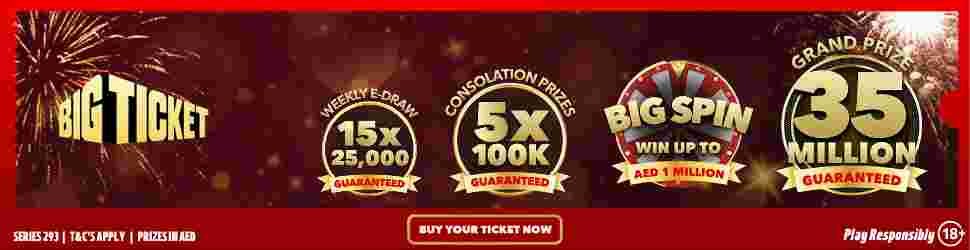
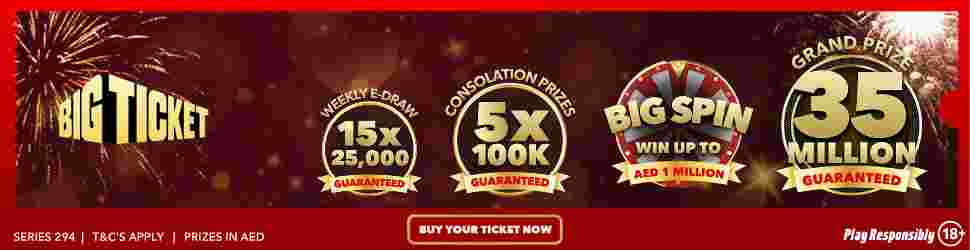
Add files via upload

Changed region(s): [[0.0, 0.896, 0.2784, 1.0]]

diff --git a/2026/12-december/awareness/orig/970x250/big_ticket_awareness_html5_970x250.js b/2026/12-december/awareness/orig/970x250/big_ticket_awareness_html5_970x250.js
@@ -873,132 +873,132 @@ if (reversed == null) { reversed = false; }
 	this.shape_14.setTransform(847.2571,234.275);
 
 	this.shape_15 = new cjs.Shape();
-	this.shape_15.graphics.f("#FFFFFF").s().p("AgYAvIAAhdIAXAAQAHAAAGAEQAGADADAGQAEAGAAAIIAAAmQAAAIgEAHQgDAGgGADQgGAEgHAAgAgCAbIABAAQAAAAABgBQAAAAAAAAQABAAAAAAQABgBAAAAIABgFIAAgoQAAgBAAgBQAAAAgBgBQAAAAAAgBQAAAAgBAAIgCgBIgBAAg");
-	this.shape_15.setTransform(192.925,236.35);
+	this.shape_15.graphics.f("#FFFFFF").s().p("AgkApIAAhRIAdAAQAHAAAIACQAIACAHAFQAGAFAEAHQAEAIAAALQAAAKgEAJQgEAHgGAFQgHAFgIADQgIACgHAAgAgWAdIANAAIAKgCQAGgCAEgDQAFgDADgFQADgGAAgIQAAgIgDgGQgDgFgFgDQgEgDgGgBIgKgCIgNAAg");
+	this.shape_15.setTransform(260.575,236.8);
 
 	this.shape_16 = new cjs.Shape();
-	this.shape_16.graphics.f("#FFFFFF").s().p("AgUAvIAAhdIApAAIAAAUIgUAAIAAAQIAQAAIAAATIgQAAIAAASIAUAAIAAAUg");
-	this.shape_16.setTransform(187.875,236.35);
+	this.shape_16.graphics.f("#FFFFFF").s().p("AgbApIAAhRIA1AAIAAAMIgnAAIAAAWIAlAAIAAALIglAAIAAAXIApAAIAAANg");
+	this.shape_16.setTransform(252.625,236.8);
 
 	this.shape_17 = new cjs.Shape();
-	this.shape_17.graphics.f("#FFFFFF").s().p("AAHAvIgCgSIgKAAIgBASIgVAAIAMhdIAeAAIANBdgAADAJIgCgYIgBgIIAAAIIgDAYIAGAAg");
-	this.shape_17.setTransform(182.45,236.35);
+	this.shape_17.graphics.f("#FFFFFF").s().p("AAZApIgHgTIgjAAIgHATIgRAAIAkhRIAMAAIAjBRgAgMAKIAZAAIgNghg");
+	this.shape_17.setTransform(244.775,236.8);
 
 	this.shape_18 = new cjs.Shape();
-	this.shape_18.graphics.f("#FFFFFF").s().p("AAAAvIgFg7IAAA7IgWAAIAAhdIAcAAIAFA5IAAg5IAWAAIAABdg");
-	this.shape_18.setTransform(174.775,236.35);
+	this.shape_18.graphics.f("#FFFFFF").s().p("AASApIgmg/IgBAAIAAA/IgOAAIAAhRIATAAIAlA9IAAg9IAPAAIAABRg");
+	this.shape_18.setTransform(233.275,236.8);
 
 	this.shape_19 = new cjs.Shape();
-	this.shape_19.graphics.f("#FFFFFF").s().p("AgKAvIAAhdIAVAAIAABdg");
-	this.shape_19.setTransform(170.225,236.35);
+	this.shape_19.graphics.f("#FFFFFF").s().p("AgGApIAAhRIANAAIAABRg");
+	this.shape_19.setTransform(227.125,236.8);
 
 	this.shape_20 = new cjs.Shape();
-	this.shape_20.graphics.f("#FFFFFF").s().p("AgLAvIgLgDIAFgTIAIACIAGABQADAAABgBQABgBAAAAQAAgBABAAQAAgBAAAAQAAgBAAgBIAAAAQAAgDgCgDIgFgHIgFgEIgGgHQgDgEgBgEQgCgFAAgGQAAgNAGgGQAHgHAJAAIAKABQAFABAGACIgGASIgGgBIgEgBQgEAAgCACQAAAAAAABQAAAAAAABQAAAAAAABQgBAAAAABIAAAAQABADAAACIAGAGIACACIACADIAHAGIAFAJQABAEABAHQAAAJgEAGQgDAGgFADQgFADgHAAIgLgBg");
-	this.shape_20.setTransform(164.85,236.325);
+	this.shape_20.graphics.f("#FFFFFF").s().p("AgPAoQgJgDgEgGIAKgKQAEAFAEADQAGABAEAAIAEAAIAGgCIADgEQABgCAAgDQAAgEgBgCIgFgDIgFgEIgHgCIgHgCQgEgCgDgCQgDgCgBgEQgCgEAAgGQAAgGACgFQADgFAEgDQAEgCAGgCIAJgBQAHAAAGACQAGACAGAFIgKAKQgDgDgDgCQgFgCgEAAIgFAAIgEACIgEAEIgBAFIABAFIAEADIAEADIAGACIAIADIAIADQAEADABAEQADAEAAAGQAAAGgDAGQgCAEgEAEQgEADgFABQgGACgFAAQgIAAgHgDg");
+	this.shape_20.setTransform(219.15,236.8);
 
 	this.shape_21 = new cjs.Shape();
-	this.shape_21.graphics.f("#FFFFFF").s().p("AgUAvIAAhdIApAAIAAAUIgUAAIAAAQIAQAAIAAATIgQAAIAAASIAUAAIAAAUg");
-	this.shape_21.setTransform(160.175,236.35);
+	this.shape_21.graphics.f("#FFFFFF").s().p("AgbApIAAhRIA1AAIAAAMIgnAAIAAAWIAlAAIAAALIglAAIAAAXIApAAIAAANg");
+	this.shape_21.setTransform(212.625,236.8);
 
 	this.shape_22 = new cjs.Shape();
-	this.shape_22.graphics.f("#FFFFFF").s().p("AgXAvIAAgTIAZg1IgWAAIAAgVIAsAAIAAATIgZA2IAZAAIAAAUg");
-	this.shape_22.setTransform(155.075,236.35);
+	this.shape_22.graphics.f("#FFFFFF").s().p("AgeApIAAgNIArg4IgqAAIAAgMIA8AAIAAANIgsA3IAsAAIAAANg");
+	this.shape_22.setTransform(205.375,236.8);
 
 	this.shape_23 = new cjs.Shape();
-	this.shape_23.graphics.f("#FFFFFF").s().p("AgKAvIAAhdIAVAAIAABdg");
-	this.shape_23.setTransform(150.975,236.35);
+	this.shape_23.graphics.f("#FFFFFF").s().p("AgGApIAAhRIANAAIAABRg");
+	this.shape_23.setTransform(200.175,236.8);
 
 	this.shape_24 = new cjs.Shape();
-	this.shape_24.graphics.f("#FFFFFF").s().p("AAEAvIgHgkIgBAAIAAAkIgWAAIAAhdIAXAAQAKAAAGAEQAFACADAHQACAFAAAIIAAAHQAAAHgCAFQgCAEgDACIALAqgAgEgFIABAAQAAAAABAAQABAAAAAAQABgBAAAAQAAAAAAAAQAAgBAAAAQAAgBABAAQAAgBAAAAQAAgBAAgBIAAgJIgBgEIgDgBIgBAAg");
-	this.shape_24.setTransform(146.525,236.35);
+	this.shape_24.graphics.f("#FFFFFF").s().p("AANApIgSgjIgLAAIAAAjIgOAAIAAhRIAdAAIAKABIAJAEQAEADADAEQADAFAAAHQAAAIgGAGQgEAEgJACIAWAlgAgQgFIAMAAIAGAAIAGgCQACgBABgDQACgCAAgDQAAgEgCgCIgDgDIgGgDIgEAAIgOAAg");
+	this.shape_24.setTransform(195.25,236.8);
 
 	this.shape_25 = new cjs.Shape();
-	this.shape_25.graphics.f("#FFFFFF").s().p("AgYAvIAAhdIAXAAQAKAAAFAEQAGACACAHQADAFAAAIIAAAIQAAAKgEAFQgDAFgGADQgGABgHAAIgBAAIAAAjgAgCgEIABAAIACgBQABAAAAgBQAAAAAAgBQABAAAAgBQAAgBAAgBIAAgKIgBgEIgDgBIgBAAg");
-	this.shape_25.setTransform(140.725,236.35);
+	this.shape_25.graphics.f("#FFFFFF").s().p("AgcApIAAhRIAbAAQAGAAAGABQAFABAFAEQAEADACAEQACAEAAAHQAAAGgDAFQgCAFgEACQgFADgGABIgLABIgLAAIAAAigAgNgEIAKAAIAGgBIAGgBIAEgFQABgCAAgDQAAgEgBgCQgCgDgCAAIgGgDIgFAAIgLAAg");
+	this.shape_25.setTransform(187.975,236.8);
 
 	this.shape_26 = new cjs.Shape();
-	this.shape_26.graphics.f("#FFFFFF").s().p("AgIA8IAAh3IASAAIAAB3g");
-	this.shape_26.setTransform(131.6,237.625);
+	this.shape_26.graphics.f("#FFFFFF").s().p("AgFA6IAAhzIALAAIAABzg");
+	this.shape_26.setTransform(174.25,238);
 
 	this.shape_27 = new cjs.Shape();
-	this.shape_27.graphics.f("#FFFFFF").s().p("AgKAvIAAgaIgShDIAXAAIAFAgIAHggIAWAAIgSBDIAAAag");
-	this.shape_27.setTransform(122.325,236.35);
+	this.shape_27.graphics.f("#FFFFFF").s().p("AgGApIAAgkIgfgtIASAAIATAjIAVgjIARAAIgfAtIAAAkg");
+	this.shape_27.setTransform(160.675,236.8);
 
 	this.shape_28 = new cjs.Shape();
-	this.shape_28.graphics.f("#FFFFFF").s().p("AgVAvIAAhdIAVAAIAABIIAWAAIAAAVg");
-	this.shape_28.setTransform(116.7,236.35);
+	this.shape_28.graphics.f("#FFFFFF").s().p("AgYApIAAhRIAPAAIAABEIAiAAIAAANg");
+	this.shape_28.setTransform(154.525,236.8);
 
 	this.shape_29 = new cjs.Shape();
-	this.shape_29.graphics.f("#FFFFFF").s().p("AgYAvIAAhdIAXAAQAKAAAFAEQAGACACAHQADAFAAAIIAAAIQAAAKgEAFQgDAFgGADQgGABgHAAIgBAAIAAAjgAgCgEIABAAIACgBQABAAAAgBQAAAAAAgBQABAAAAgBQAAgBAAgBIAAgKIgBgEIgDgBIgBAAg");
-	this.shape_29.setTransform(111.325,236.35);
+	this.shape_29.graphics.f("#FFFFFF").s().p("AgcApIAAhRIAbAAQAGAAAGABQAFABAFAEQAEADACAEQACAEAAAHQAAAGgDAFQgCAFgEACQgFADgGABIgLABIgLAAIAAAigAgNgEIAKAAIAGgBIAGgBIAEgFQABgCAAgDQAAgEgBgCQgCgDgCAAIgGgDIgFAAIgLAAg");
+	this.shape_29.setTransform(147.825,236.8);
 
 	this.shape_30 = new cjs.Shape();
-	this.shape_30.graphics.f("#FFFFFF").s().p("AgYAvIAAhdIAXAAQAKAAAFAEQAGACACAHQADAFAAAIIAAAIQAAAKgEAFQgDAFgGADQgGABgHAAIgBAAIAAAjgAgCgEIABAAIACgBQABAAAAgBQAAAAAAgBQABAAAAgBQAAgBAAgBIAAgKIgBgEIgDgBIgBAAg");
-	this.shape_30.setTransform(105.725,236.35);
+	this.shape_30.graphics.f("#FFFFFF").s().p("AgcApIAAhRIAbAAQAGAAAGABQAFABAFAEQAEADACAEQACAEAAAHQAAAGgDAFQgCAFgEACQgFADgGABIgLABIgLAAIAAAigAgNgEIAKAAIAGgBIAGgBIAEgFQABgCAAgDQAAgEgBgCQgCgDgCAAIgGgDIgFAAIgLAAg");
+	this.shape_30.setTransform(140.775,236.8);
 
 	this.shape_31 = new cjs.Shape();
-	this.shape_31.graphics.f("#FFFFFF").s().p("AAHAvIgCgSIgKAAIgBASIgVAAIAMhdIAfAAIAMBdgAADAJIgCgYIgBgIIAAAIIgCAYIAFAAg");
-	this.shape_31.setTransform(99.85,236.35);
+	this.shape_31.graphics.f("#FFFFFF").s().p("AAZApIgHgTIgjAAIgHATIgRAAIAkhRIAMAAIAjBRgAgMAKIAZAAIgNghg");
+	this.shape_31.setTransform(132.875,236.8);
 
 	this.shape_32 = new cjs.Shape();
-	this.shape_32.graphics.f("#FFFFFF").s().p("AgLAvIgLgDIAFgTIAHACIAHABQADAAABgBQABgBAAAAQAAgBABAAQAAgBAAAAQAAgBAAgBIAAAAQAAgDgCgDIgFgHIgFgEIgGgHQgDgEgBgEQgCgFAAgGQAAgNAGgGQAHgHAJAAIAKABQAFABAGACIgGASIgGgBIgEgBQgEAAgCACQAAAAAAABQAAAAAAABQAAAAAAABQgBAAAAABIAAAAQABADAAACIAGAGIACACIACADIAHAGIAFAJQABAEABAHQAAAJgEAGQgDAGgFADQgFADgHAAIgLgBg");
-	this.shape_32.setTransform(92.85,236.325);
+	this.shape_32.graphics.f("#FFFFFF").s().p("AgPAoQgJgDgEgGIALgKQADAFAEADQAGABAEAAIAEAAIAGgCIADgEQABgCAAgDQAAgEgBgCIgEgDIgGgEIgHgCIgHgCQgEgCgDgCQgDgCgBgEQgCgEAAgGQgBgGADgFQADgFAEgDQAEgCAGgCIAJgBQAHAAAGACQAGACAGAFIgKAKQgDgDgDgCQgFgCgEAAIgFAAIgEACIgDAEIgCAFIACAFIADADIAEADIAGACIAIADIAIADQADADADAEQACAEAAAGQAAAGgCAGQgDAEgEAEQgEADgFABQgGACgFAAQgIAAgHgDg");
+	this.shape_32.setTransform(122.5,236.8);
 
 	this.shape_33 = new cjs.Shape();
-	this.shape_33.graphics.f("#FFFFFF").s().p("AgFAUIgEgnIATAAIgDAng");
-	this.shape_33.setTransform(88.925,233.675);
+	this.shape_33.graphics.f("#FFFFFF").s().p("AgFAPIAAgdIALAAIAAAdg");
+	this.shape_33.setTransform(117.625,234.225);
 
 	this.shape_34 = new cjs.Shape();
-	this.shape_34.graphics.f("#FFFFFF").s().p("AgQApQgHgHAAgOIAAgnQAAgOAHgIQAHgHAMAAIAKABIAJAEIgIARIgDgBIgEgBQgEABgDADQgBACAAAFIAAAjQAAAFACACQADADAEAAIAAAAIAEAAIAEgBIAIAQQgFADgFABQgFABgGAAQgMAAgHgHg");
-	this.shape_34.setTransform(85.175,236.35);
+	this.shape_34.graphics.f("#FFFFFF").s().p("AgLAoQgIgEgFgFQgGgGgDgHQgEgIAAgKQAAgJAEgIQADgIAGgGQAGgFAIgDQAIgDAJAAIAIABIAIACIAIAEQADACADADIgMAJQgDgEgFgCQgFgCgFgBQgHABgEACQgFACgEAEQgDAFgDAFQgCAGAAAFQAAAHACAFQACAGAEADQAEAEAFADQAEACAGAAQAHAAAFgCQAFgDADgEIAMAIQgGAGgHAEQgIAEgLAAQgIAAgJgDg");
+	this.shape_34.setTransform(112.225,236.8);
 
 	this.shape_35 = new cjs.Shape();
-	this.shape_35.graphics.f("#FFFFFF").s().p("AgZAqQgHgGAAgMIAAgMQAAgGADgFQAEgDAEAAIgDgIIgBgHIAAgHQAAgIACgFQABgGAGgCQAEgCAIAAQAGAAAEACQAEACACAFQACAGgBAIIAAAGIAAAHQgBAEgEADQgCADgFABIAIALIgBgFIgBgGIASAAIAAAMIgBAJIgDAIIAMASIgWAAIgBgDIgHADIgHABQgOAAgHgGgAgLAPIAAADIAAADQAAAFACACQACADAEAAIACgBIABAAIgLgSgAgGgbIAAADIAAAKIAAACIAAABIADgBIABgFIAAgHIAAgDIgCgBQgBAAAAAAQAAAAgBAAQAAAAAAAAQAAAAAAABg");
-	this.shape_35.setTransform(78.75,236.325);
+	this.shape_35.graphics.f("#FFFFFF").s().p("AgWApQgFgBgDgDQgEgDgCgFQgDgEAAgGQAAgFACgDIAEgHIAFgEIAHgDQgEgEgCgFQgDgEAAgGQAAgFACgEQACgEAEgCQADgDAEgBIAJgBIAHABIAHAEIAFAGQACAEAAAFQAAAEgBADQgBAEgDACQgCADgDACIgGAEIANANIAJgOIAQAAIgQAXIATATIgTAAIgJgJQgEAFgGADQgEADgJAAQgGAAgFgCgAgRAHIgEACIgCAEIgBAFIABAGIADAEIAEACIAFABQAFAAAEgCQADgCADgEIgRgSIgEACgAgNgcQgDACAAAFQAAADACADQACAEADADIAFgDIAEgDIABgDIABgEQAAgEgCgDQgCgDgEAAQgEAAgDADg");
+	this.shape_35.setTransform(103.925,236.775);
 
 	this.shape_36 = new cjs.Shape();
-	this.shape_36.graphics.f("#FFFFFF").s().p("AgJAvIAAhHIgOAAIAAgWIAvAAIAAAWIgNAAIAABHg");
-	this.shape_36.setTransform(72.65,236.35);
+	this.shape_36.graphics.f("#FFFFFF").s().p("AgHApIAAhFIgYAAIAAgMIBAAAIAAAMIgaAAIAABFg");
+	this.shape_36.setTransform(96.1,236.8);
 
 	this.shape_37 = new cjs.Shape();
-	this.shape_37.graphics.f("#FFFFFF").s().p("AgJA8IAAh3IASAAIAAB3g");
-	this.shape_37.setTransform(63.95,237.625);
+	this.shape_37.graphics.f("#FFFFFF").s().p("AgFA6IAAhzIALAAIAABzg");
+	this.shape_37.setTransform(82.85,238);
 
 	this.shape_38 = new cjs.Shape();
-	this.shape_38.graphics.f("#FFFFFF").s().p("AgLAvQgGgBgGgEIAIgRIAFADIAHABQADAAABgCIABgGIAAgIIgBgDIgBgDIgFAAIgDAAIAAgPIADAAIAEgBIABgDIABgDIAAgFQAAgDgBgDQgBgDgDAAIgFABIgFAEIgHgSQAFgDAGgBIAJgCQALAAAGAHQAHAHAAAMIAAACQAAAHgDAGQgDAEgGABQAHABADAEQADAGAAAJIAAAEQAAAMgHAHQgGAIgLgBQgGAAgFgBg");
-	this.shape_38.setTransform(56.425,236.35);
[1 lines of base64/hex data omitted]
+	this.shape_38.setTransform(72.1,236.8);
 
 	this.shape_39 = new cjs.Shape();
-	this.shape_39.graphics.f("#FFFFFF").s().p("AgPAwIAHgRIAHgRIAAABIgCAAQgLAAgEgHQgGgGAAgLIAAgLQAAgIAEgGQADgHAFgDQAFgDAHAAQAHAAAFACQAGADADAFQAEAFAAAJIAAALIgBAFIgBAFIgBADIgJAYIgJAXgAgBgbIAAADIAAATIAAACIABABIABgBIABgCIAAgTIgBgDIgBAAIgBAAg");
-	this.shape_39.setTransform(51.25,236.225);
+	this.shape_39.graphics.f("#FFFFFF").s().p("AgPAqIAUgeIgFABIgDAAQgFAAgFgCQgFgCgDgEQgEgDgCgEQgCgFAAgGQAAgGACgFQADgFADgEQAEgEAGgCQAFgCAGAAQAGAAAGACQAFACAEAEQAFAEABAFQADAFAAAGIAAAHIgDAFIgCAFIgDAHIgVAfgAgLgZQgEAEAAAIQAAADACAEIACAEIAGADQACABADAAIAGgBIAFgDQACgBABgDIABgHIgBgHIgCgEQgCgDgEgBQgDgBgDgBQgGABgFAEg");
+	this.shape_39.setTransform(65.15,236.7);
 
 	this.shape_40 = new cjs.Shape();
-	this.shape_40.graphics.f("#FFFFFF").s().p("AgWAwIAAgTIAMgQIAKgPQAEgIAAgGIAAgBQgBgEgBgCQAAAAgBgBQAAAAgBAAQAAgBAAAAQAAAAgBAAIgDgBIgHABIgGABIgGgSIAKgDQAGgCAHAAQAIAAAFAEQAGAEADAHQACAGAAAIIAAAAQAAAHgCAHQgCAFgEAGIgIALIgIAKIAWAAIAAAUg");
-	this.shape_40.setTransform(45.8,236.275);
+	this.shape_40.graphics.f("#FFFFFF").s().p("AgaAqIAAgMIAfgfQAEgDACgEQACgEAAgFQAAgFgEgEQgEgDgFgBQgFAAgEAFQgDADgBAHIgOgDQABgFADgEQACgEADgDIAIgGQAGgBAEAAQAFAAAGABQAFACADADQAEADACAEQADAFAAAGIgCAHIgDAHIgDAFIgGAEIgXAYIAlAAIAAAMg");
+	this.shape_40.setTransform(58.05,236.7);
 
 	this.shape_41 = new cjs.Shape();
-	this.shape_41.graphics.f("#FFFFFF").s().p("AgMAvIgKgDIAFgTIAHACIAHABQADAAABgBQAAgBABAAQAAgBAAAAQABgBAAAAQAAgBAAgBIAAAAQAAgDgCgDIgFgHIgFgEIgGgHQgDgEgCgEQgBgFAAgGQAAgNAHgGQAFgHALAAIAJABQAGABAFACIgGASIgGgBIgEgBQgEAAgBACQgBAAAAABQAAAAAAABQAAAAAAABQgBAAAAABIAAAAQAAADACACIAFAGIACACIADADIAGAGIAFAJQACAEgBAHQAAAJgCAGQgEAGgFADQgGADgGAAIgMgBg");
-	this.shape_41.setTransform(39.15,236.325);
+	this.shape_41.graphics.f("#FFFFFF").s().p("AgQAoQgHgDgFgGIAKgKQAEAFAFADQAFABAEAAIAFAAIAEgCIADgEQACgCAAgDQAAgEgCgCIgEgDIgGgEIgGgCIgHgCQgEgCgDgCQgDgCgCgEQgCgEAAgGQABgGACgFQACgFAFgDQAEgCAFgCIALgBQAGAAAGACQAHACAEAFIgJAKQgDgDgEgCQgEgCgEAAIgEAAIgFACIgEAEIAAAFIAAAFIADADIAGADIAFACIAIADIAIADQADADACAEQADAEAAAGQAAAGgDAGQgCAEgEAEQgEADgGABQgFACgFAAQgIAAgIgDg");
+	this.shape_41.setTransform(48.2,236.8);
 
 	this.shape_42 = new cjs.Shape();
-	this.shape_42.graphics.f("#FFFFFF").s().p("AgUAvIAAhdIApAAIAAAUIgUAAIAAAQIAQAAIAAATIgQAAIAAASIAUAAIAAAUg");
-	this.shape_42.setTransform(34.525,236.35);
+	this.shape_42.graphics.f("#FFFFFF").s().p("AgbApIAAhRIA1AAIAAAMIgnAAIAAAWIAlAAIAAALIglAAIAAAXIApAAIAAANg");
+	this.shape_42.setTransform(41.675,236.8);
 
 	this.shape_43 = new cjs.Shape();
-	this.shape_43.graphics.f("#FFFFFF").s().p("AgKAvIAAhdIAVAAIAABdg");
-	this.shape_43.setTransform(30.675,236.35);
+	this.shape_43.graphics.f("#FFFFFF").s().p("AgGApIAAhRIANAAIAABRg");
+	this.shape_43.setTransform(36.325,236.8);
 
 	this.shape_44 = new cjs.Shape();
-	this.shape_44.graphics.f("#FFFFFF").s().p("AAEAvIgHgkIgBAAIAAAkIgWAAIAAhdIAXAAQAKAAAGAEQAFACADAHQACAFAAAIIAAAHQAAAHgCAFQgCAEgDACIALAqgAgEgFIABAAQABAAAAAAQABAAAAAAQABgBAAAAQAAAAAAAAQAAgBAAAAQAAgBAAAAQABgBAAAAQAAgBAAgBIAAgJIgBgEIgDgBIgBAAg");
-	this.shape_44.setTransform(26.225,236.35);
+	this.shape_44.graphics.f("#FFFFFF").s().p("AAOApIgSgjIgLAAIAAAjIgPAAIAAhRIAcAAIALABIAJAEQAEADADAEQADAFAAAHQAAAIgFAGQgFAEgJACIAWAlgAgPgFIAMAAIAFAAIAFgCQADgBACgDQABgCAAgDQAAgEgBgCIgEgDIgFgDIgFAAIgNAAg");
+	this.shape_44.setTransform(31.4,236.8);
 
 	this.shape_45 = new cjs.Shape();
-	this.shape_45.graphics.f("#FFFFFF").s().p("AgUAvIAAhdIApAAIAAAUIgUAAIAAAQIAQAAIAAATIgQAAIAAASIAUAAIAAAUg");
-	this.shape_45.setTransform(21.025,236.35);
+	this.shape_45.graphics.f("#FFFFFF").s().p("AgbApIAAhRIA1AAIAAAMIgnAAIAAAWIAlAAIAAALIglAAIAAAXIApAAIAAANg");
+	this.shape_45.setTransform(24.075,236.8);
 
 	this.shape_46 = new cjs.Shape();
-	this.shape_46.graphics.f("#FFFFFF").s().p("AgLAvIgMgDIAGgTIAIACIAFABQAEAAABgBQABgBAAAAQAAgBABAAQAAgBAAAAQAAgBAAgBIAAAAQAAgDgCgDIgGgHIgDgEIgHgHQgDgEgBgEQgCgFAAgGQAAgNAGgGQAHgHAJAAIAKABQAFABAFACIgFASIgGgBIgEgBQgEAAgCACQAAAAAAABQAAAAAAABQAAAAAAABQAAAAAAABIAAAAQAAADAAACIAGAGIADACIABADIAIAGIAEAJQACAEAAAHQgBAJgDAGQgDAGgFADQgGADgGAAIgLgBg");
-	this.shape_46.setTransform(16.15,236.325);
+	this.shape_46.graphics.f("#FFFFFF").s().p("AgQAoQgHgDgFgGIAKgKQADAFAFADQAFABAFAAIAFAAIAEgCIAEgEQABgCAAgDQAAgEgBgCIgFgDIgFgEIgHgCIgHgCQgEgCgDgCQgDgCgBgEQgCgEgBgGQAAgGADgFQACgFAFgDQAEgCAGgCIAKgBQAGAAAGACQAGACAFAFIgJAKQgCgDgEgCQgFgCgEAAIgFAAIgEACIgEAEIgBAFIABAFIAEADIAEADIAGACIAIADIAIADQADADACAEQADAEAAAGQAAAGgDAGQgCAEgEAEQgEADgGABQgFACgFAAQgIAAgIgDg");
+	this.shape_46.setTransform(16.9,236.8);
 
 	this.timeline.addTween(cjs.Tween.get({}).to({state:[{t:this.shape_46},{t:this.shape_45},{t:this.shape_44},{t:this.shape_43},{t:this.shape_42},{t:this.shape_41},{t:this.shape_40},{t:this.shape_39},{t:this.shape_38},{t:this.shape_37},{t:this.shape_36},{t:this.shape_35},{t:this.shape_34},{t:this.shape_33},{t:this.shape_32},{t:this.shape_31},{t:this.shape_30},{t:this.shape_29},{t:this.shape_28},{t:this.shape_27},{t:this.shape_26},{t:this.shape_25},{t:this.shape_24},{t:this.shape_23},{t:this.shape_22},{t:this.shape_21},{t:this.shape_20},{t:this.shape_19},{t:this.shape_18},{t:this.shape_17},{t:this.shape_16},{t:this.shape_15},{t:this.shape_14},{t:this.shape_13},{t:this.shape_12},{t:this.shape_11},{t:this.shape_10},{t:this.shape_9},{t:this.shape_8},{t:this.shape_7},{t:this.shape_6},{t:this.shape_5},{t:this.shape_4},{t:this.shape_3},{t:this.shape_2},{t:this.shape_1},{t:this.shape},{t:this.instance}]}).wait(376));
 
